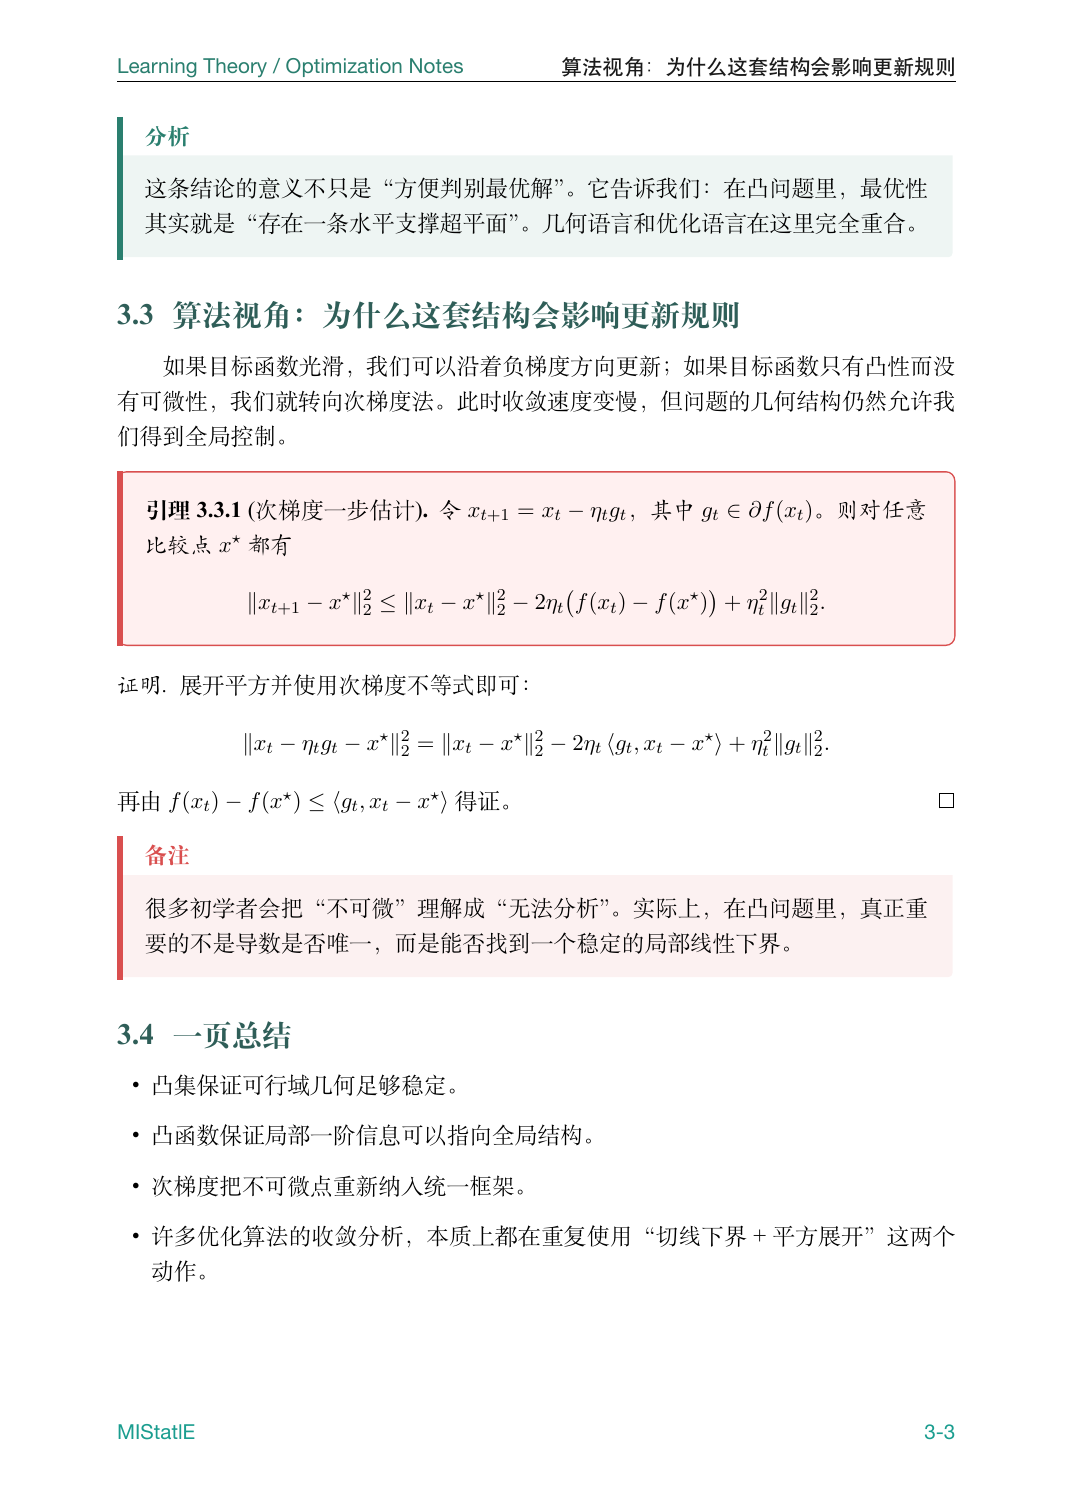
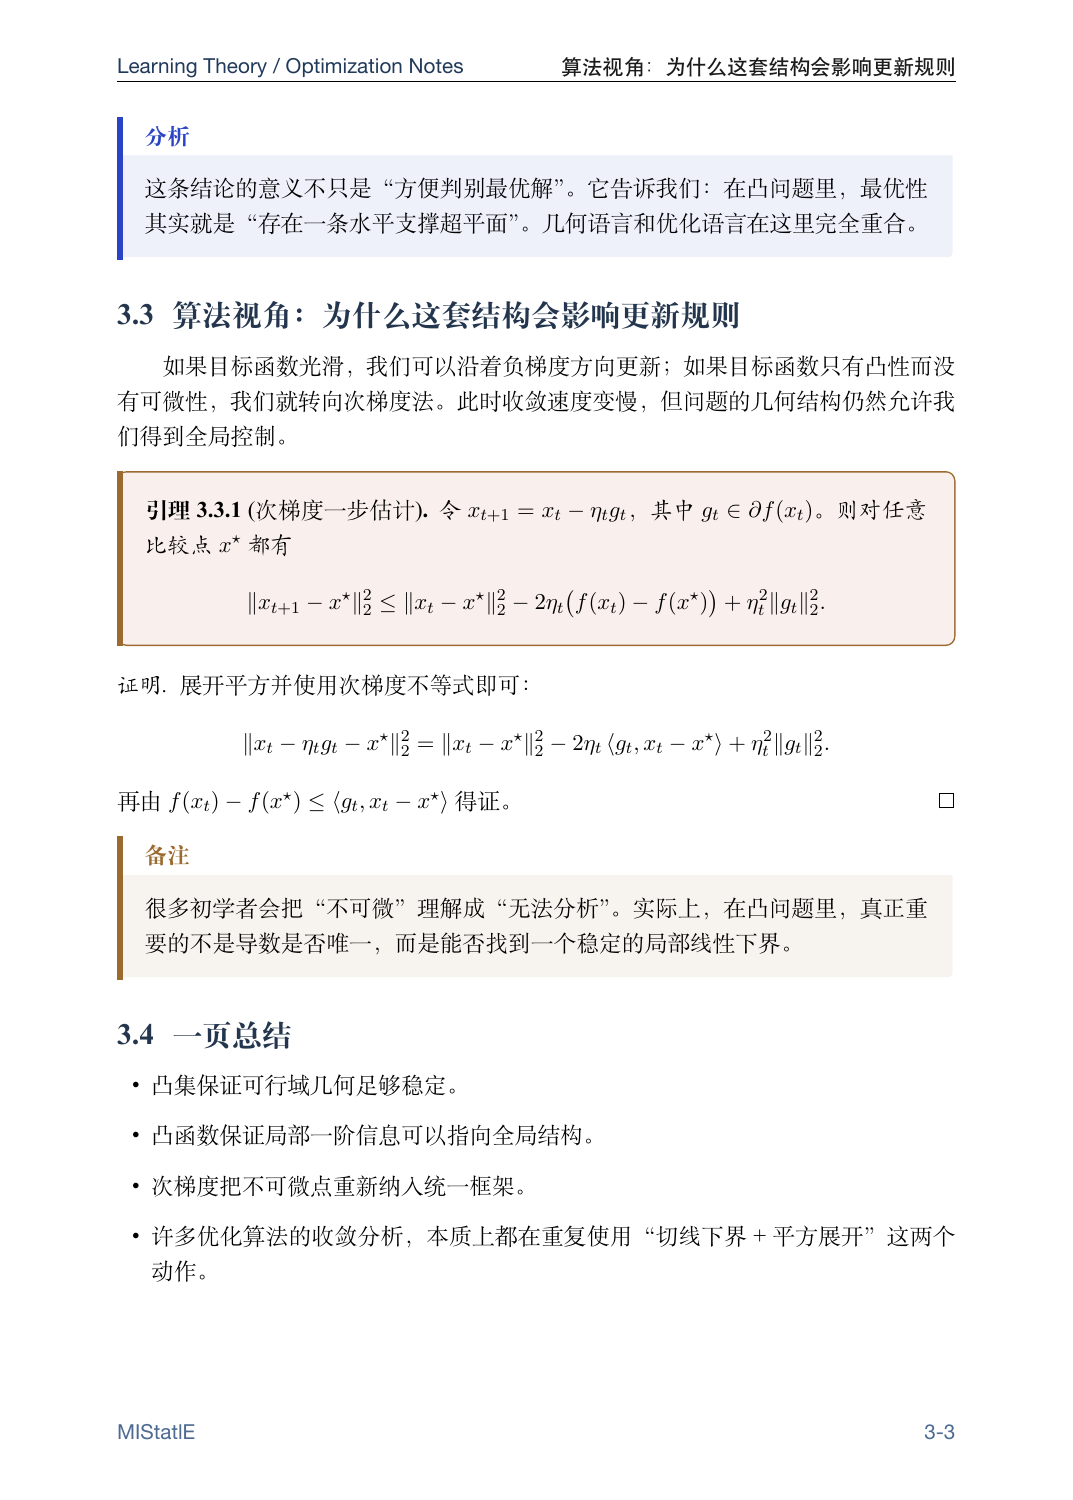
Refine CN and EN template palettes

diff --git a/public/data/templates/cn_lecture_source/CN.tex b/public/data/templates/cn_lecture_source/CN.tex
@@ -42,23 +42,23 @@
 \setlength{\parindent}{1.6em}
 \setlength{\parskip}{0.15em}
 
-\definecolor{brand}{HTML}{1A9D8F}
-\definecolor{brandD}{HTML}{2A7F6F}
+\definecolor{brand}{HTML}{4C6A92}
+\definecolor{brandD}{HTML}{213A5A}
 \definecolor{ink}{HTML}{1A1A1A}
-\definecolor{keybg}{HTML}{E8F4F1}
-\definecolor{keydark}{HTML}{2F5E58}
-\definecolor{accent}{HTML}{FF6B6B}
-\definecolor{accentD}{HTML}{D94F4F}
-\definecolor{soft}{HTML}{F3F8F7}
-\definecolor{xhsRed}{HTML}{FF4D4F}
+\definecolor{keybg}{HTML}{EEF3F8}
+\definecolor{keydark}{HTML}{24364E}
+\definecolor{accent}{HTML}{C89A4B}
+\definecolor{accentD}{HTML}{9B6A2F}
+\definecolor{soft}{HTML}{F7F5F0}
+\definecolor{xhsRed}{HTML}{B95E4A}
 \definecolor{xhsDark}{HTML}{1F1F1F}
-\definecolor{xhsCream}{HTML}{FFF8F0}
-\definecolor{xhsBlue}{HTML}{2F54EB}
-\definecolor{xhsYellow}{HTML}{FFB800}
+\definecolor{xhsCream}{HTML}{FBF8F1}
+\definecolor{xhsBlue}{HTML}{2F5B8A}
+\definecolor{xhsYellow}{HTML}{D8A64B}
 \definecolor{secblue}{HTML}{2B44C6}
-\definecolor{thmBg}{RGB}{235,245,255}
-\definecolor{lemBg}{RGB}{255,240,240}
-\definecolor{defBg}{RGB}{232,244,241}
+\definecolor{thmBg}{RGB}{236,242,251}
+\definecolor{lemBg}{RGB}{249,239,237}
+\definecolor{defBg}{RGB}{242,245,249}
 
 \hypersetup{
   colorlinks=true,
@@ -130,36 +130,36 @@
   \markright{#2}%
   \begin{tcolorbox}[
     cn-panel,
-    colback=keybg,
+    colback=white,
     colframe=brandD,
-    borderline west={4pt}{0pt}{xhsYellow}
+    borderline west={4pt}{0pt}{accent}
   ]
-    {\sffamily\small\color{ink!68} #4 \hfill #5}\par
+    {\sffamily\small\color{ink!60} #4 \hfill #5}\par
     \vspace{0.35em}
     {\bfseries\fontsize{22}{26}\selectfont\color{keydark} 第 #1 讲：#2\par}
     \vspace{0.2em}
-    {\large\color{brandD} #3\par}
+    {\large\color{brand} #3\par}
     \vspace{0.7em}
-    {\small\sffamily\color{ink!72} 主讲：#6 \hfill \LectureAffiliation}
+    {\small\sffamily\color{ink!72} 主讲：#6 \hfill {\color{brandD}\LectureAffiliation}}
   \end{tcolorbox}
   \vspace{0.7em}
 }
 
 \newtcolorbox{SummaryBox}{
   cn-panel,
-  colback=xhsCream,
-  colframe=xhsYellow,
+  colback=soft,
+  colframe=accent,
   title=\textbf{本讲摘要},
   fonttitle=\bfseries,
-  coltitle=xhsDark,
-  colbacktitle=xhsYellow
+  coltitle=white,
+  colbacktitle=accentD
 }
 
 \newtcolorbox{AnalysisBox}{
-  cn-soft=brandD,
+  cn-soft=secblue,
   title=\textbf{分析},
   fonttitle=\bfseries,
-  coltitle=brandD
+  coltitle=secblue
 }
 
 \newtcolorbox{RemarkBox}{
@@ -171,7 +171,7 @@
 
 \newtcolorbox{ExampleBox}{
   cn-panel,
-  colback=soft,
+  colback=white,
   colframe=xhsBlue,
   title=\textbf{Example},
   fonttitle=\bfseries,

diff --git a/public/data/templates/en_article_source/EN.tex b/public/data/templates/en_article_source/EN.tex
@@ -39,23 +39,23 @@
 \setlength{\parindent}{1.4em}
 \setlength{\parskip}{0.2em}
 
-\definecolor{brand}{HTML}{1A9D8F}
-\definecolor{brandD}{HTML}{2A7F6F}
+\definecolor{brand}{HTML}{4C6A92}
+\definecolor{brandD}{HTML}{213A5A}
 \definecolor{ink}{HTML}{1A1A1A}
-\definecolor{keybg}{HTML}{E8F4F1}
-\definecolor{keydark}{HTML}{2F5E58}
-\definecolor{accent}{HTML}{FF6B6B}
-\definecolor{accentD}{HTML}{D94F4F}
-\definecolor{soft}{HTML}{F3F8F7}
-\definecolor{xhsRed}{HTML}{FF4D4F}
+\definecolor{keybg}{HTML}{EEF3F8}
+\definecolor{keydark}{HTML}{24364E}
+\definecolor{accent}{HTML}{C89A4B}
+\definecolor{accentD}{HTML}{9B6A2F}
+\definecolor{soft}{HTML}{F7F5F0}
+\definecolor{xhsRed}{HTML}{B95E4A}
 \definecolor{xhsDark}{HTML}{1F1F1F}
-\definecolor{xhsCream}{HTML}{FFF8F0}
-\definecolor{xhsBlue}{HTML}{2F54EB}
-\definecolor{xhsYellow}{HTML}{FFB800}
+\definecolor{xhsCream}{HTML}{FBF8F1}
+\definecolor{xhsBlue}{HTML}{2F5B8A}
+\definecolor{xhsYellow}{HTML}{D8A64B}
 \definecolor{secblue}{HTML}{2B44C6}
-\definecolor{thmBg}{RGB}{235,245,255}
-\definecolor{lemBg}{RGB}{255,240,240}
-\definecolor{defBg}{RGB}{232,244,241}
+\definecolor{thmBg}{RGB}{236,242,251}
+\definecolor{lemBg}{RGB}{249,239,237}
+\definecolor{defBg}{RGB}{242,245,249}
 
 \hypersetup{
   colorlinks=true,
@@ -124,15 +124,15 @@
 \newcommand{\MakeArticleHeader}[5]{%
   \begin{tcolorbox}[
     en-card,
-    colback=xhsCream,
-    colframe=keybg,
-    borderline west={4pt}{0pt}{brandD}
+    colback=white,
+    colframe=brandD!25!white,
+    borderline west={4pt}{0pt}{accent}
   ]
-    {\small\sffamily\color{ink!68} #4 \hfill #3}\par
+    {\small\sffamily\color{ink!60} #4 \hfill #3}\par
     \vspace{0.4em}
     {\bfseries\fontsize{24}{28}\selectfont\color{keydark} #1\par}
     \vspace{0.2em}
-    {\large\color{brandD} #2\par}
+    {\large\color{brand} #2\par}
     \vspace{0.65em}
     \foreach \Tag in {#5}{\tcbox[meta-tag]{\Tag}\hspace{0.35em}}
   \end{tcolorbox}
@@ -159,11 +159,11 @@
 \newtcolorbox{ExampleBox}{
   en-card,
   colback=xhsCream,
-  colframe=xhsRed,
+  colframe=accent,
   title=\textbf{Example},
   fonttitle=\bfseries,
   coltitle=white,
-  colbacktitle=xhsRed
+  colbacktitle=accentD
 }
 
 \theoremstyle{plain}

diff --git a/public/data/templates/cn_lecture_note.md b/public/data/templates/cn_lecture_note.md
@@ -124,23 +124,23 @@ tags: [LaTeX, Lecture Note, CTeX, XeLaTeX]
 \setlength{\parindent}{1.6em}
 \setlength{\parskip}{0.15em}
 
-\definecolor{brand}{HTML}{1A9D8F}
-\definecolor{brandD}{HTML}{2A7F6F}
+\definecolor{brand}{HTML}{4C6A92}
+\definecolor{brandD}{HTML}{213A5A}
 \definecolor{ink}{HTML}{1A1A1A}
-\definecolor{keybg}{HTML}{E8F4F1}
-\definecolor{keydark}{HTML}{2F5E58}
-\definecolor{accent}{HTML}{FF6B6B}
-\definecolor{accentD}{HTML}{D94F4F}
-\definecolor{soft}{HTML}{F3F8F7}
-\definecolor{xhsRed}{HTML}{FF4D4F}
+\definecolor{keybg}{HTML}{EEF3F8}
+\definecolor{keydark}{HTML}{24364E}
+\definecolor{accent}{HTML}{C89A4B}
+\definecolor{accentD}{HTML}{9B6A2F}
+\definecolor{soft}{HTML}{F7F5F0}
+\definecolor{xhsRed}{HTML}{B95E4A}
 \definecolor{xhsDark}{HTML}{1F1F1F}
-\definecolor{xhsCream}{HTML}{FFF8F0}
-\definecolor{xhsBlue}{HTML}{2F54EB}
-\definecolor{xhsYellow}{HTML}{FFB800}
+\definecolor{xhsCream}{HTML}{FBF8F1}
+\definecolor{xhsBlue}{HTML}{2F5B8A}
+\definecolor{xhsYellow}{HTML}{D8A64B}
 \definecolor{secblue}{HTML}{2B44C6}
-\definecolor{thmBg}{RGB}{235,245,255}
-\definecolor{lemBg}{RGB}{255,240,240}
-\definecolor{defBg}{RGB}{232,244,241}
+\definecolor{thmBg}{RGB}{236,242,251}
+\definecolor{lemBg}{RGB}{249,239,237}
+\definecolor{defBg}{RGB}{242,245,249}
 
 \hypersetup{
   colorlinks=true,
@@ -212,36 +212,36 @@ tags: [LaTeX, Lecture Note, CTeX, XeLaTeX]
   \markright{#2}%
   \begin{tcolorbox}[
     cn-panel,
-    colback=keybg,
+    colback=white,
     colframe=brandD,
-    borderline west={4pt}{0pt}{xhsYellow}
+    borderline west={4pt}{0pt}{accent}
   ]
-    {\sffamily\small\color{ink!68} #4 \hfill #5}\par
+    {\sffamily\small\color{ink!60} #4 \hfill #5}\par
     \vspace{0.35em}
     {\bfseries\fontsize{22}{26}\selectfont\color{keydark} 第 #1 讲：#2\par}
     \vspace{0.2em}
-    {\large\color{brandD} #3\par}
+    {\large\color{brand} #3\par}
     \vspace{0.7em}
-    {\small\sffamily\color{ink!72} 主讲：#6 \hfill \LectureAffiliation}
+    {\small\sffamily\color{ink!72} 主讲：#6 \hfill {\color{brandD}\LectureAffiliation}}
   \end{tcolorbox}
   \vspace{0.7em}
 }
 
 \newtcolorbox{SummaryBox}{
   cn-panel,
-  colback=xhsCream,
-  colframe=xhsYellow,
+  colback=soft,
+  colframe=accent,
   title=\textbf{本讲摘要},
   fonttitle=\bfseries,
-  coltitle=xhsDark,
-  colbacktitle=xhsYellow
+  coltitle=white,
+  colbacktitle=accentD
 }
 
 \newtcolorbox{AnalysisBox}{
-  cn-soft=brandD,
+  cn-soft=secblue,
   title=\textbf{分析},
   fonttitle=\bfseries,
-  coltitle=brandD
+  coltitle=secblue
 }
 
 \newtcolorbox{RemarkBox}{
@@ -253,7 +253,7 @@ tags: [LaTeX, Lecture Note, CTeX, XeLaTeX]
 
 \newtcolorbox{ExampleBox}{
   cn-panel,
-  colback=soft,
+  colback=white,
   colframe=xhsBlue,
   title=\textbf{Example},
   fonttitle=\bfseries,

diff --git a/public/data/templates/en_article_note.md b/public/data/templates/en_article_note.md
@@ -121,23 +121,23 @@ tags: [LaTeX, Article, Expository, XeLaTeX]
 \setlength{\parindent}{1.4em}
 \setlength{\parskip}{0.2em}
 
-\definecolor{brand}{HTML}{1A9D8F}
-\definecolor{brandD}{HTML}{2A7F6F}
+\definecolor{brand}{HTML}{4C6A92}
+\definecolor{brandD}{HTML}{213A5A}
 \definecolor{ink}{HTML}{1A1A1A}
-\definecolor{keybg}{HTML}{E8F4F1}
-\definecolor{keydark}{HTML}{2F5E58}
-\definecolor{accent}{HTML}{FF6B6B}
-\definecolor{accentD}{HTML}{D94F4F}
-\definecolor{soft}{HTML}{F3F8F7}
-\definecolor{xhsRed}{HTML}{FF4D4F}
+\definecolor{keybg}{HTML}{EEF3F8}
+\definecolor{keydark}{HTML}{24364E}
+\definecolor{accent}{HTML}{C89A4B}
+\definecolor{accentD}{HTML}{9B6A2F}
+\definecolor{soft}{HTML}{F7F5F0}
+\definecolor{xhsRed}{HTML}{B95E4A}
 \definecolor{xhsDark}{HTML}{1F1F1F}
-\definecolor{xhsCream}{HTML}{FFF8F0}
-\definecolor{xhsBlue}{HTML}{2F54EB}
-\definecolor{xhsYellow}{HTML}{FFB800}
+\definecolor{xhsCream}{HTML}{FBF8F1}
+\definecolor{xhsBlue}{HTML}{2F5B8A}
+\definecolor{xhsYellow}{HTML}{D8A64B}
 \definecolor{secblue}{HTML}{2B44C6}
-\definecolor{thmBg}{RGB}{235,245,255}
-\definecolor{lemBg}{RGB}{255,240,240}
-\definecolor{defBg}{RGB}{232,244,241}
+\definecolor{thmBg}{RGB}{236,242,251}
+\definecolor{lemBg}{RGB}{249,239,237}
+\definecolor{defBg}{RGB}{242,245,249}
 
 \hypersetup{
   colorlinks=true,
@@ -206,15 +206,15 @@ tags: [LaTeX, Article, Expository, XeLaTeX]
 \newcommand{\MakeArticleHeader}[5]{%
   \begin{tcolorbox}[
     en-card,
-    colback=xhsCream,
-    colframe=keybg,
-    borderline west={4pt}{0pt}{brandD}
+    colback=white,
+    colframe=brandD!25!white,
+    borderline west={4pt}{0pt}{accent}
   ]
-    {\small\sffamily\color{ink!68} #4 \hfill #3}\par
+    {\small\sffamily\color{ink!60} #4 \hfill #3}\par
     \vspace{0.4em}
     {\bfseries\fontsize{24}{28}\selectfont\color{keydark} #1\par}
     \vspace{0.2em}
-    {\large\color{brandD} #2\par}
+    {\large\color{brand} #2\par}
     \vspace{0.65em}
     \foreach \Tag in {#5}{\tcbox[meta-tag]{\Tag}\hspace{0.35em}}
   \end{tcolorbox}
@@ -241,11 +241,11 @@ tags: [LaTeX, Article, Expository, XeLaTeX]
 \newtcolorbox{ExampleBox}{
   en-card,
   colback=xhsCream,
-  colframe=xhsRed,
+  colframe=accent,
   title=\textbf{Example},
   fonttitle=\bfseries,
   coltitle=white,
-  colbacktitle=xhsRed
+  colbacktitle=accentD
 }
 
 \theoremstyle{plain}
